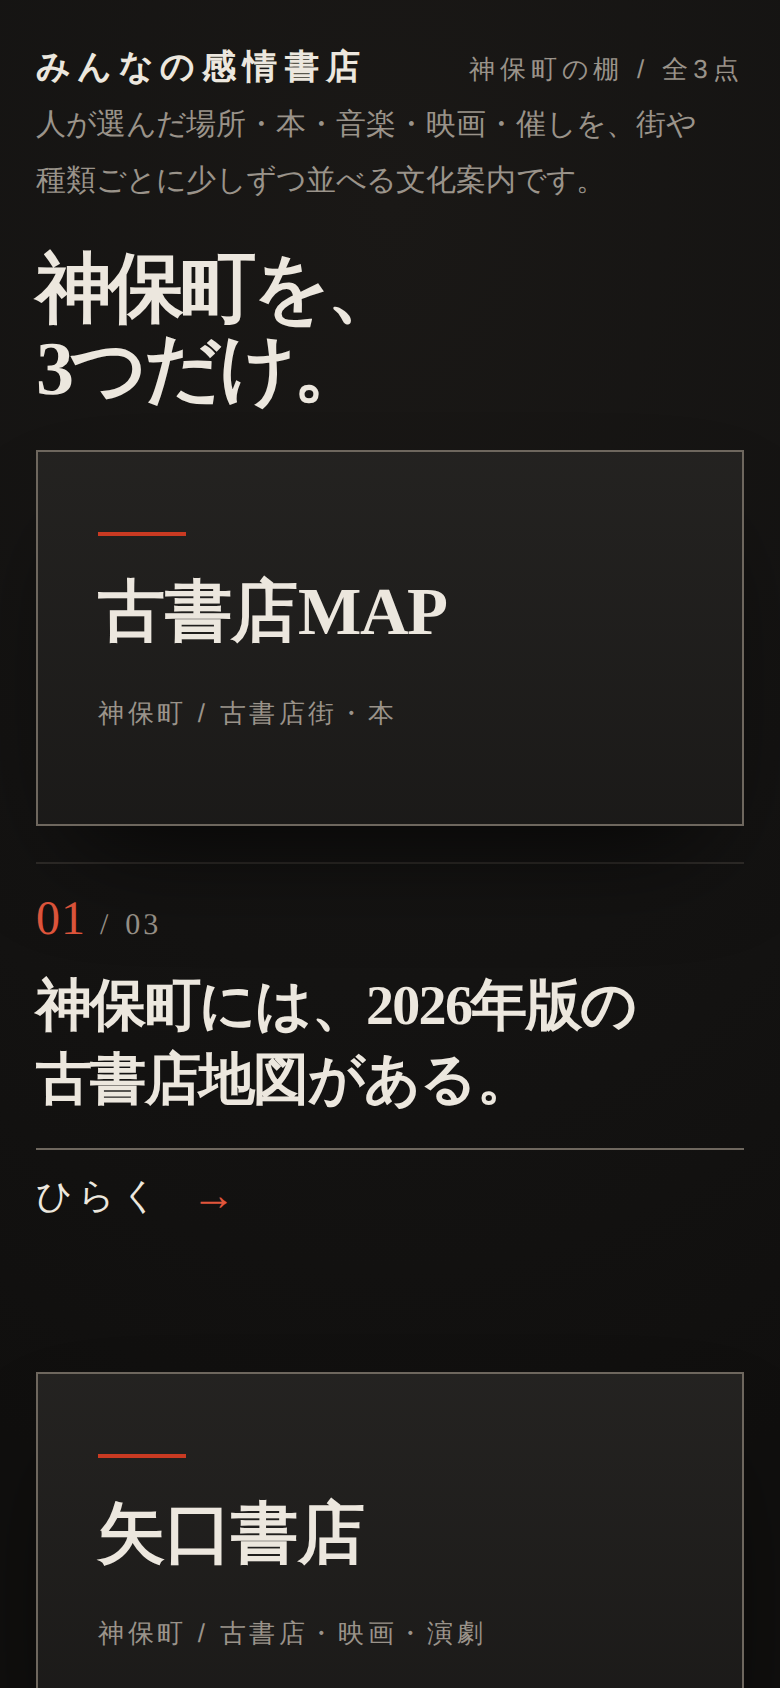
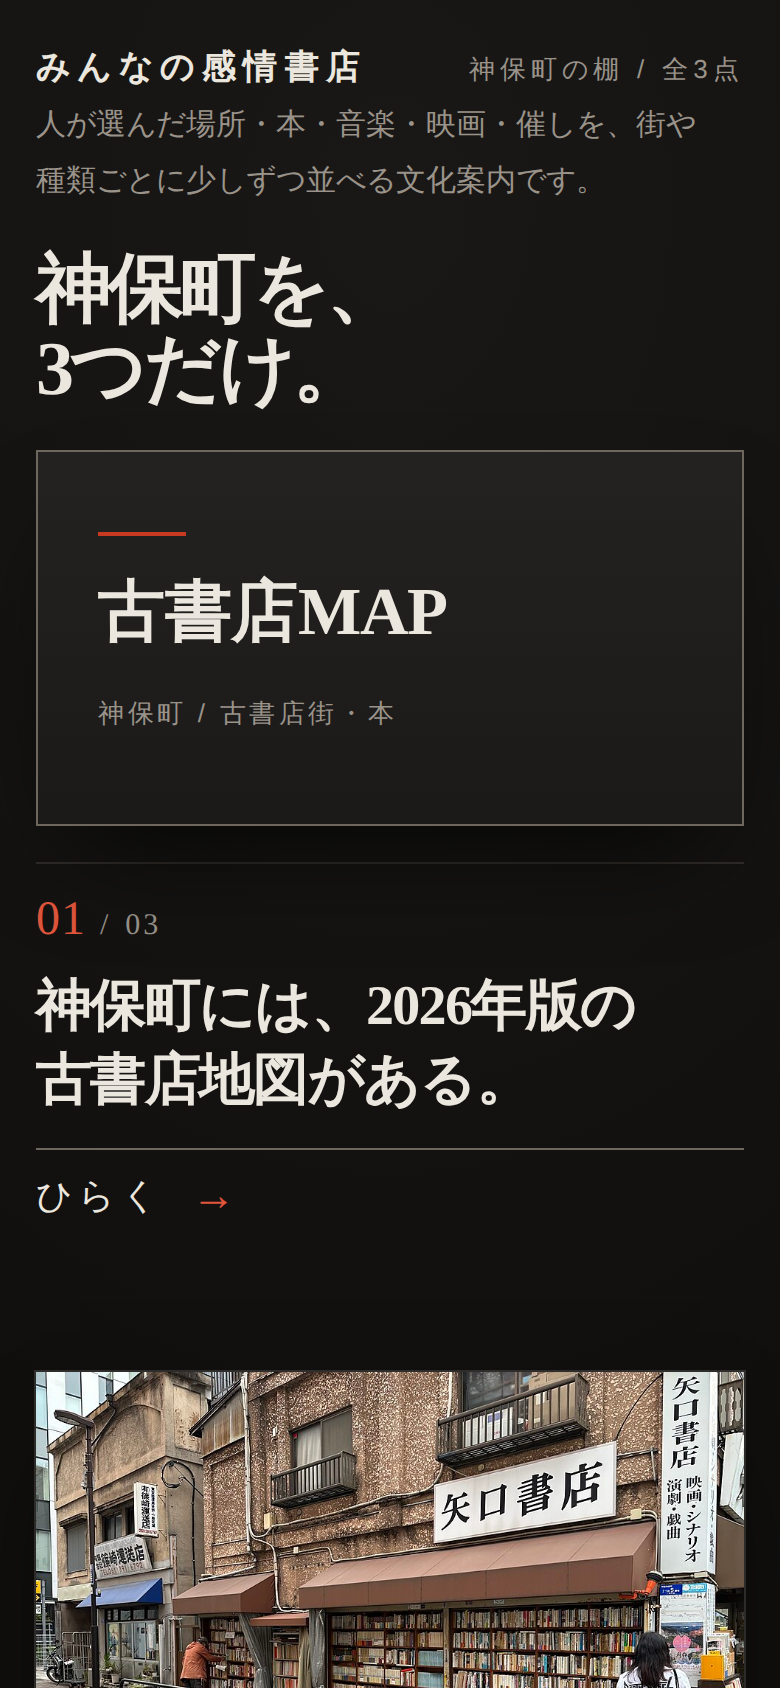
feat(release-01): SHELTER と矢口書店を活字図版から実写に差し替える
権利のはっきりした Wikimedia Commons の2枚を、同一オリジンの assets へ
置いた。どちらも縮小のみで crop はしていない。

- shimokitazawa/shimokitazawa-shelter <- SHELTER.jpg
  Syced / CC0 1.0
- jinbocho/yaguchi-shoten <- Jimbōchō Book Town 2025 02.jpg
  Olaf2 / CC BY-SA 4.0

受け取った3枚のうち1枚は、名前と被写体が想定と食い違っていた。
Jimbōchō Book Town 2025 02.jpg は神保町の街並みではなく矢口書店の店構えを
写しており、当初 jinbocho-book-town へ充てる予定だったものが
yaguchi-shoten の写真だった。画像を実際に開いて確認したうえで割り当てた。

もう1枚 Used bookstore in Jinbōchō 001.jpg は承認済みリストに無く、
撮影者とライセンスを確認できないため入れていない。
jinbocho-book-town は活字図版のまま。

alt は Reveal の答えを先に言わない範囲で、写っているものだけを述べている
（release_check.js の漏れ guard が8文字窓で検査する）。

release_check GO (photo=5 plate=7) / browser_qa 560/560 /
expiry_boundaries GO / preflight GO。

保存・製本・本棚・GA4・外部通信への影響なし。画像は同一オリジン配信で、
外部への request は増えていない。

Claude-Session: https://claude.ai/code/session_018poV34fXL7Au8c8NUFyCym

Changed region(s): [[0.0308, 0.8009, 0.9538, 1.0]]

diff --git a/v3-prototype/release-01/release_content.js b/v3-prototype/release-01/release_content.js
@@ -291,12 +291,21 @@ window.V3_RELEASE_CONTENT = {
           actionLabel: 'SHELTERの予定を見る',
           actionUrl: 'https://www.loft-prj.co.jp/schedule/shelter/schedule',
           media: {
-            kind: 'plate',
-            plateWord: 'SHELTER',
-            plateSub: '下北沢 / ライブハウス・音楽',
-            ratio: '4 / 5',
-            listAlt: '「SHELTER」と大きく組んだ、この棚のための活字図版',
-            detailAlt: '「SHELTER」と大きく組んだ、この棚のための活字図版'
+            kind: 'photo',
+            url: './assets/shimokitazawa-shelter.jpg',
+            width: 960,
+            height: 723,
+            crop: 'none',
+            listAlt: '夜の路地から、地下へ下りる階段の入口を見下ろしている',
+            detailAlt: '電球で縁取られた「SHELTER」の看板と、地下へ続く階段。壁にはライブの告知が貼られている'
+          },
+          rights: {
+            author: 'Syced',
+            source: 'Wikimedia Commons',
+            sourceUrl: 'https://commons.wikimedia.org/wiki/File:SHELTER.jpg',
+            license: 'CC0 1.0',
+            licenseUrl: 'https://creativecommons.org/publicdomain/zero/1.0/',
+            modification: '縮小のみ・cropなし'
           },
           factsSourceUrl: 'https://www.loft-prj.co.jp/schedule/shelter',
           verifiedAt: '2026-08-28T23:08:00+09:00',
@@ -428,12 +437,21 @@ window.V3_RELEASE_CONTENT = {
           actionLabel: '矢口書店の公式サイトを見る',
           actionUrl: 'https://yaguchishoten.jp/',
           media: {
-            kind: 'plate',
-            plateWord: '矢口書店',
-            plateSub: '神保町 / 古書店・映画・演劇',
-            ratio: '4 / 5',
-            listAlt: '「矢口書店」と大きく組んだ、この棚のための活字図版',
-            detailAlt: '「矢口書店」と大きく組んだ、この棚のための活字図版'
+            kind: 'photo',
+            url: './assets/yaguchi-shoten.jpg',
+            width: 960,
+            height: 640,
+            crop: 'none',
+            listAlt: '通りに面した二階建ての店の前面いっぱいに、木の書棚が並んでいる',
+            detailAlt: '「矢口書店」の看板を掲げた店構え。間口いっぱいの棚に本が詰まっている'
+          },
+          rights: {
+            author: 'Olaf2',
+            source: 'Wikimedia Commons',
+            sourceUrl: 'https://commons.wikimedia.org/wiki/File:Jimb%C5%8Dch%C5%8D_Book_Town_2025_02.jpg',
+            license: 'CC BY-SA 4.0',
+            licenseUrl: 'https://creativecommons.org/licenses/by-sa/4.0/',
+            modification: '縮小のみ・cropなし'
           },
           factsSourceUrl: 'https://yaguchishoten.jp/',
           verifiedAt: '2026-08-28T23:08:00+09:00',
